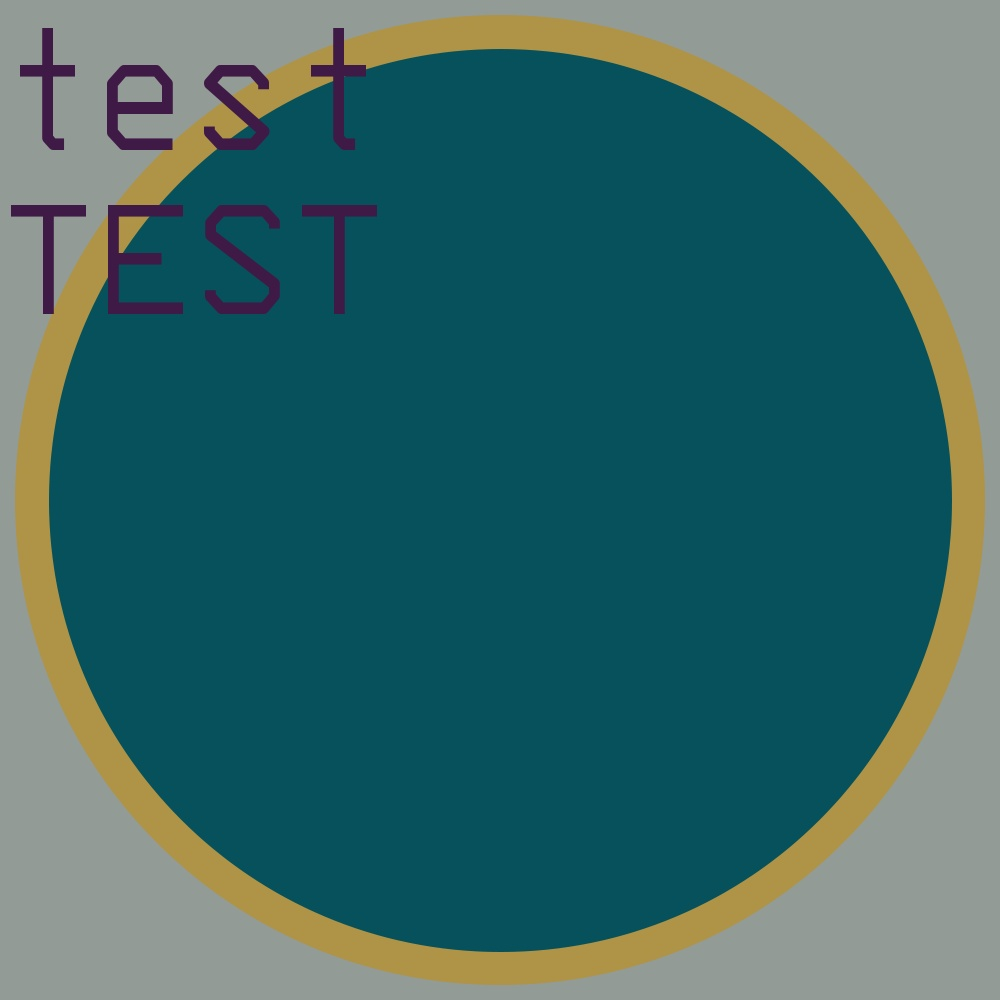
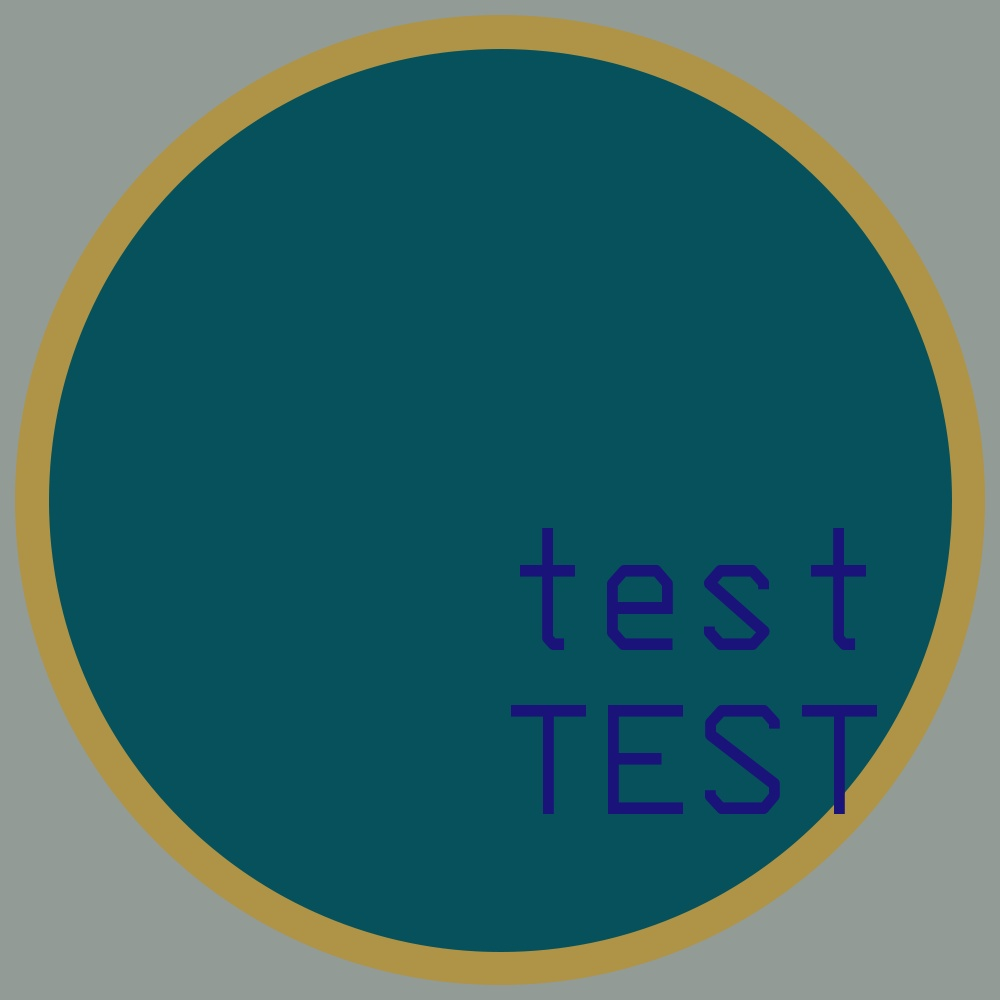
where is the middle?

diff --git a/main.py b/main.py
@@ -73,7 +73,7 @@ def TestTextToIcon(Text, TemplateImage, Font, FilePath):
     #     print(Row)
     #     LoopCount += LineOffset
 
-    draw.text((0,0),Text,(70, 26, 64),font=monospace,align='center')
+    draw.text((500,500),Text,(122, 19, 25),font=monospace,align='center')
 
     
     
